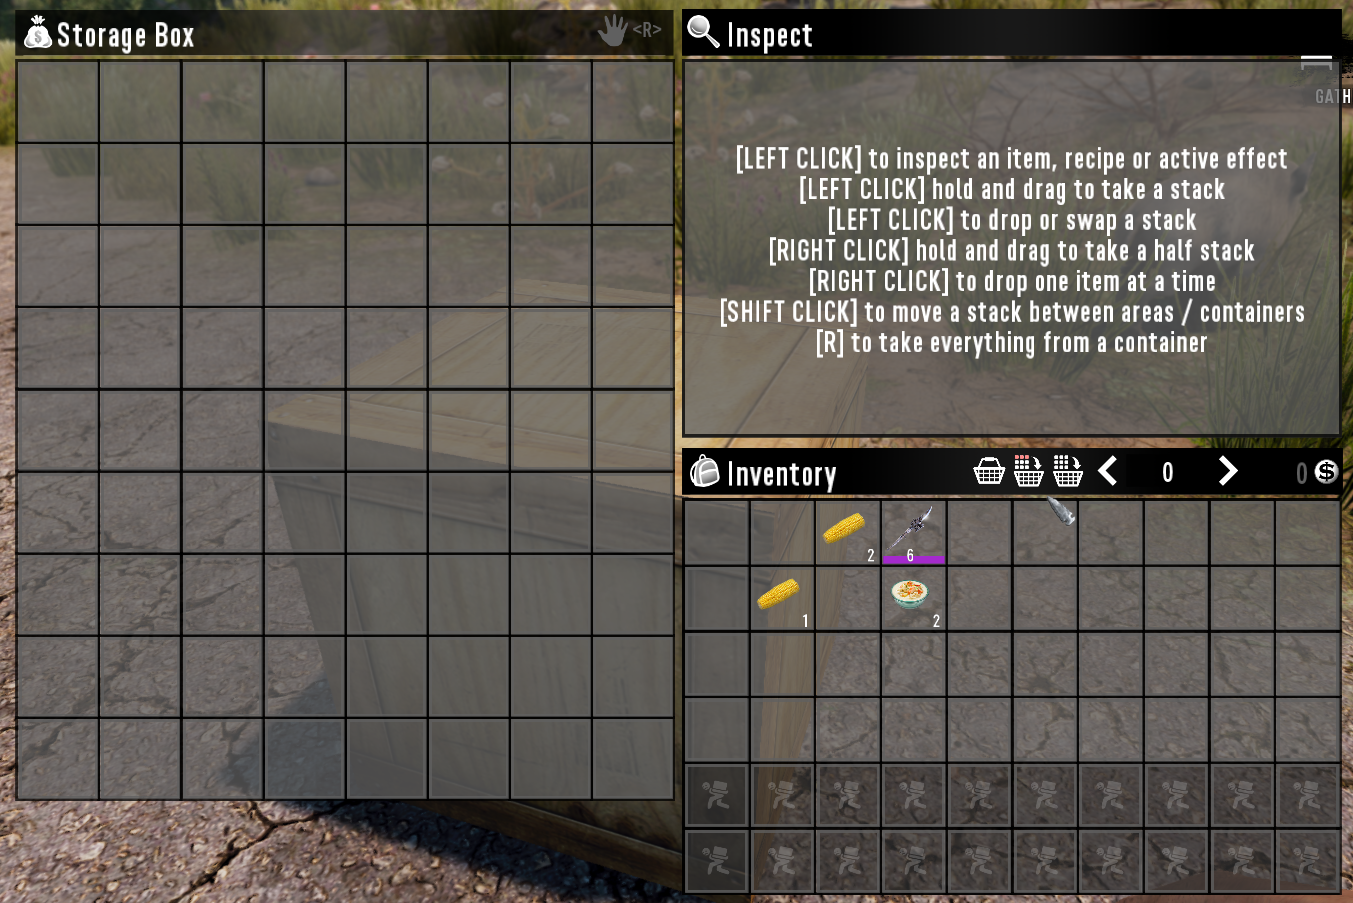
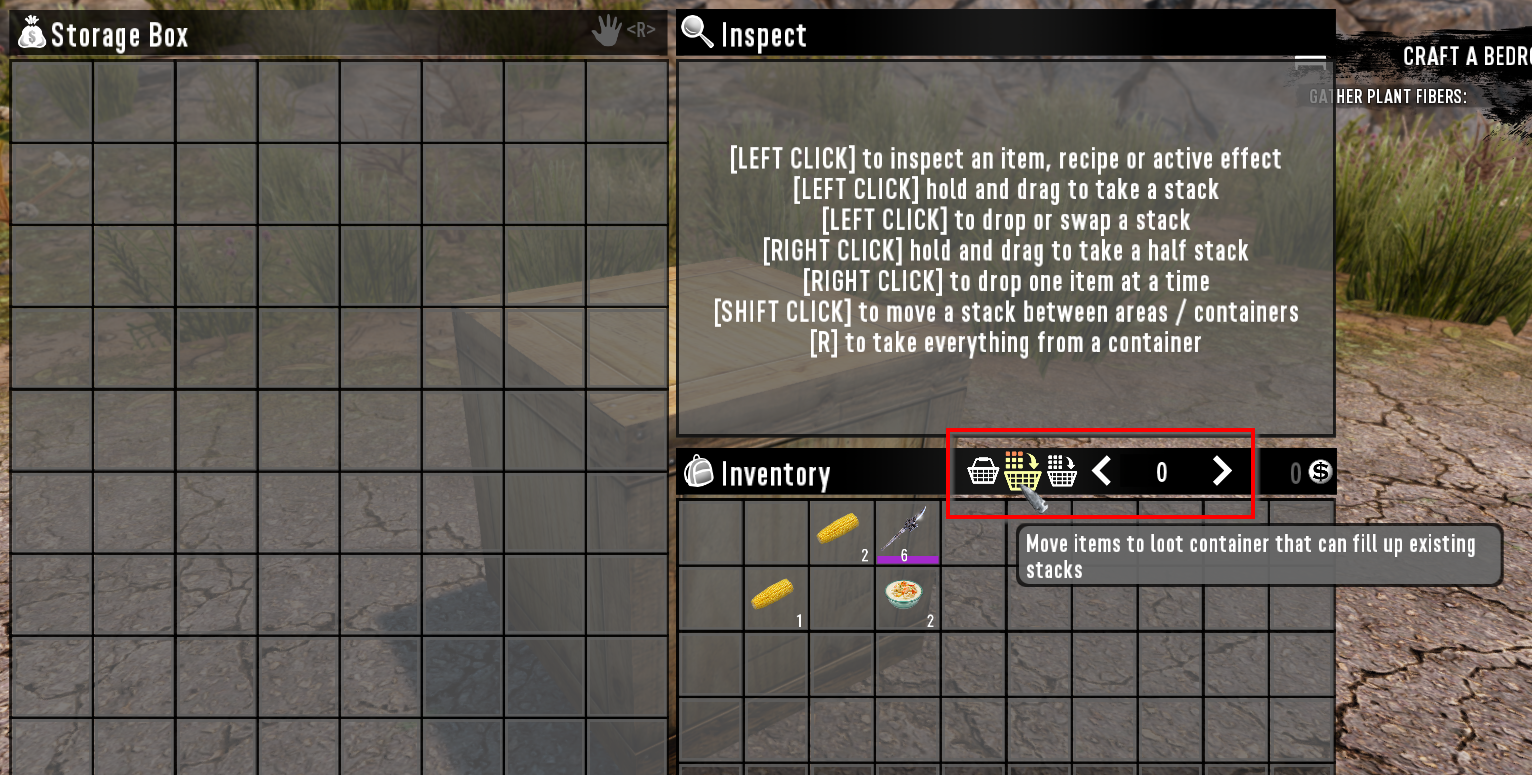
Update README.md and update back pack buttons image

diff --git a/README.md b/README.md
@@ -215,7 +215,7 @@
 ## Backpack Buttons
 - <https://7daystodiemods.com/backpack-buttons/>
 ![Backpack Buttons Screenshot](https://github.com/gitIntruder/pegcom7dtd/blob/master/Screenshots/Backpack%20Buttons.png?raw=true)
-- Enables Stash All, Stack All and Stash Smart buttons in your backpack
+- Enables Stash All, Stack All and Stash Smart buttons in your backpack. The buttons are only accessable when you activate a lootable object such as a chest.
 - Version: 1.0
 - Author: KhaineGB
 - Client Download Required: Yes
